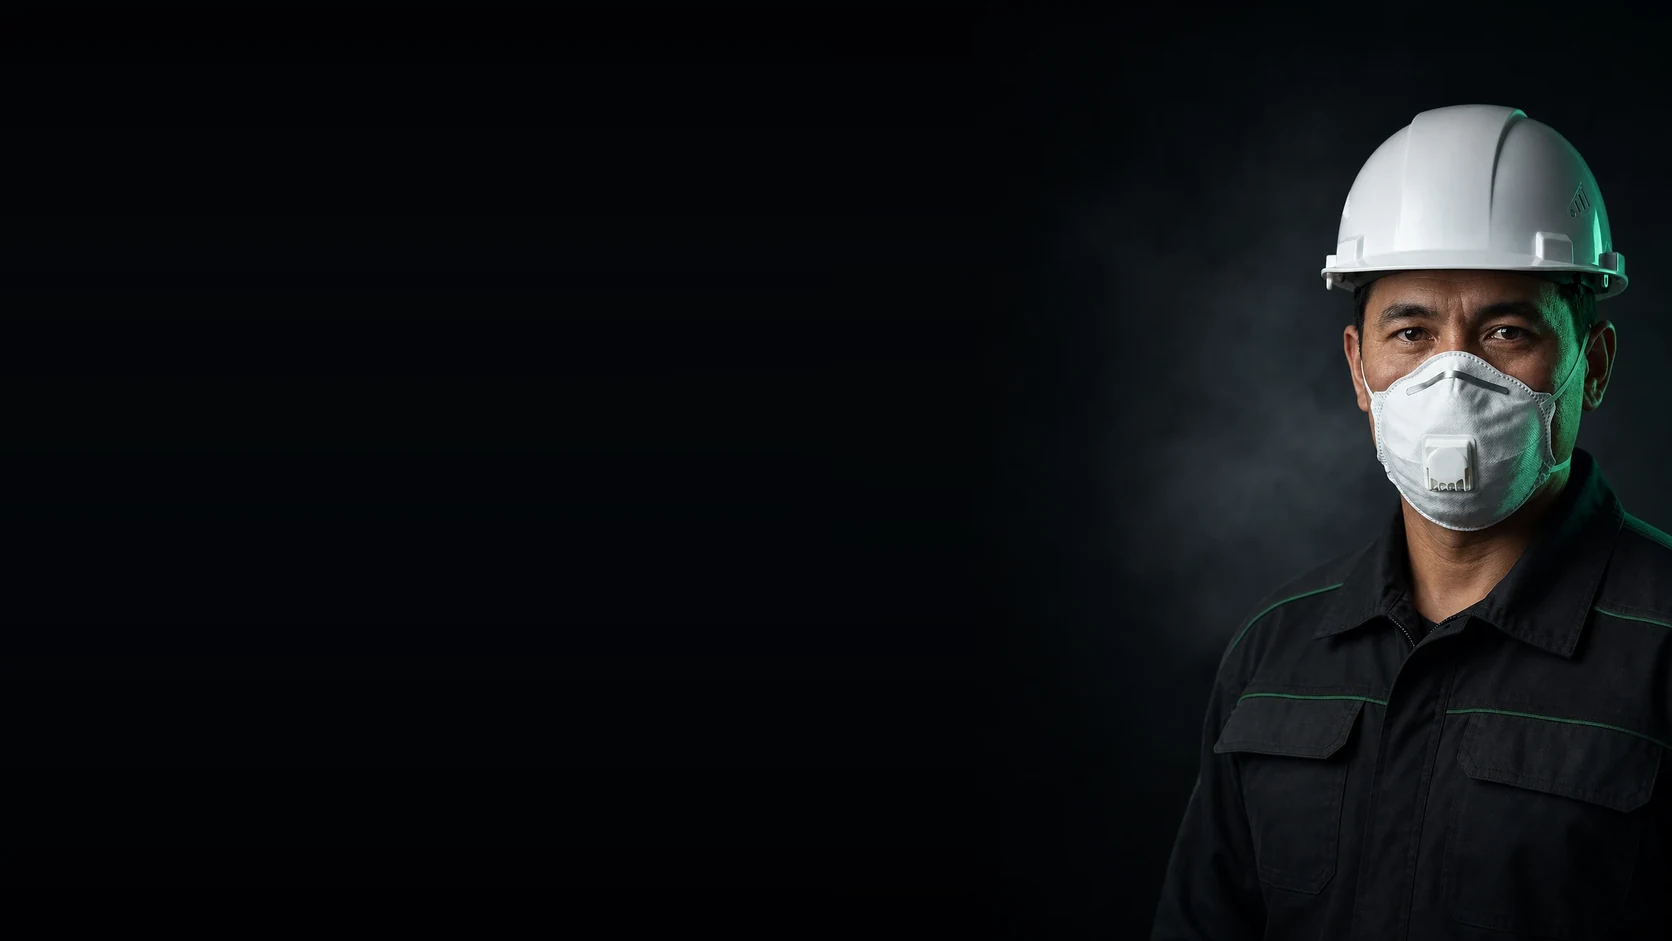
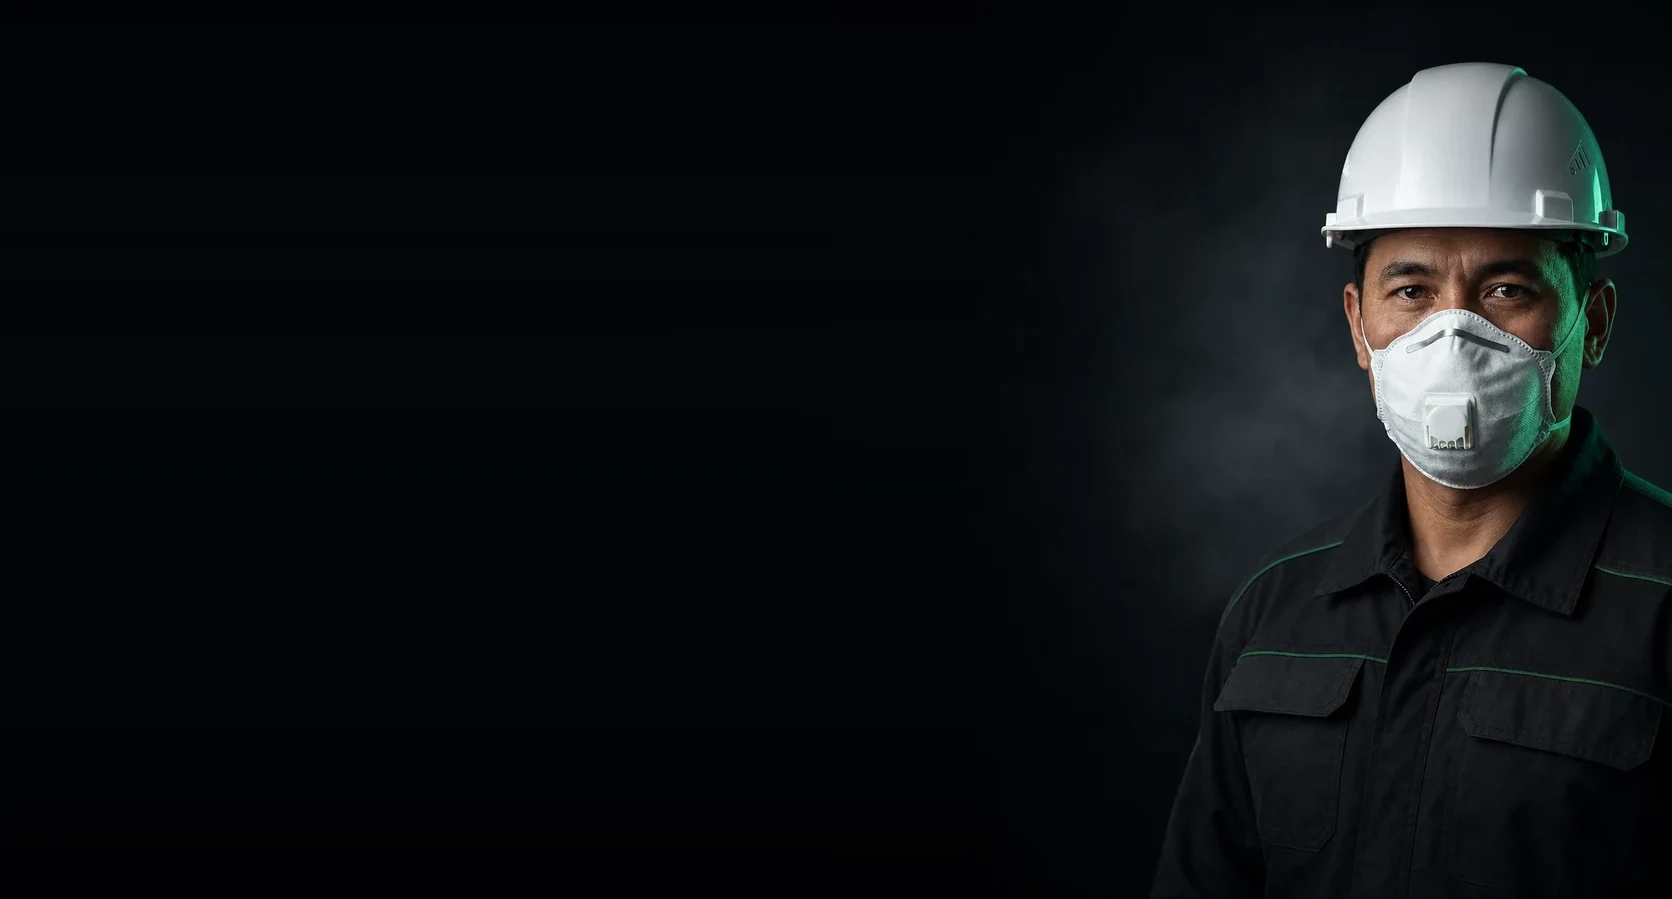
Первый экран: фигура выше, подводка в две строки
Рабочий поднят: из широкого кадра срезано 4,5 % собственного воздуха над
каской. Замер - каска на 9 % высоты острова вместо 13 на всех широких
экранах, на телефоне без изменений.

Подводка перестроена в две строки, как просил владелец: сверху объём
линейки, снизу главное отличие. Формулировка «на складе в наличии»
не использована - наличие и склад у заказчика не подтверждены, это
запрещённое утверждение по своду правил. Написано то, что доказуемо:
«22 позиции респираторов FFP1-FFP3» и «Открытый прайс - все цены
на этой странице».

diff --git a/index.html b/index.html
@@ -1471,7 +1471,7 @@
         <img src="assets/hero-premium-v2.webp"
              srcset="assets/hero-premium-v2-1200.webp 1200w, assets/hero-premium-v2.webp 1672w"
              sizes="(max-width:980px) 100vw, 78vw"
-             width="1672" height="941"
+             width="1672" height="899"
              alt="Рабочий в каске и фильтрующей полумаске с клапаном выдоха" fetchpriority="high" decoding="async">
       </picture>
     </figure>
@@ -1482,7 +1482,7 @@
         <span>FAROS</span>
         <span class="acc">Респираторы</span>
       </h1>
-      <p class="hero-lead"><i class="hl-full">Поставляем промышленным предприятиям по&nbsp;всему Казахстану. Цены на&nbsp;все 22&nbsp;позиции&nbsp;- ниже на&nbsp;этой странице.</i><i class="hl-min">Поставляем по&nbsp;всему Казахстану. Цены на&nbsp;22&nbsp;позиции&nbsp;- ниже на&nbsp;странице.</i></p>
+      <p class="hero-lead"><i class="hl-full">Поставляем по&nbsp;всему Казахстану. 22&nbsp;позиции респираторов FFP1-FFP3.<br>Открытый прайс&nbsp;- все цены на&nbsp;этой странице.</i><i class="hl-min">Поставляем по&nbsp;всему Казахстану. 22&nbsp;позиции.<br>Открытый прайс&nbsp;- цены на&nbsp;странице.</i></p>
       <div class="hero-act">
         <a class="pill pill--brand" href="https://wa.me/77710519449?text=%D0%97%D0%B4%D1%80%D0%B0%D0%B2%D1%81%D1%82%D0%B2%D1%83%D0%B9%D1%82%D0%B5%21%20%D0%9D%D1%83%D0%B6%D0%B5%D0%BD%20%D1%80%D0%B0%D1%81%D1%87%D1%91%D1%82%20%D0%BF%D0%B0%D1%80%D1%82%D0%B8%D0%B8%20%D1%80%D0%B5%D1%81%D0%BF%D0%B8%D1%80%D0%B0%D1%82%D0%BE%D1%80%D0%BE%D0%B2%20FAROS.%20%D0%98%D1%81%D1%82%D0%BE%D1%87%D0%BD%D0%B8%D0%BA%3A%20%D1%81%D0%B0%D0%B9%D1%82%20farospro.kz" target="_blank" rel="noopener" data-place="хиро-заявка">
             <svg viewBox="0 0 24 24" fill="currentColor" aria-hidden="true"><path d="M12 2a10 10 0 0 0-8.6 15.1L2 22l5-1.3A10 10 0 1 0 12 2Zm5.5 14c-.2.6-1.2 1.2-1.7 1.2-.5.1-1 .1-1.6-.1-.4-.1-.9-.3-1.5-.6-2.6-1.1-4.3-3.8-4.4-4-.1-.2-1-1.4-1-2.6 0-1.2.6-1.8.9-2.1.2-.2.5-.3.7-.3h.5c.2 0 .4 0 .6.5l.8 1.9c.1.2 0 .4-.1.5l-.3.4-.3.3c-.1.1-.2.3-.1.5.1.2.6 1.1 1.4 1.8 1 .9 1.8 1.1 2 1.2.2.1.4.1.5-.1l.7-.8c.2-.2.3-.2.5-.1l1.8.9c.2.1.4.2.4.3.1.2.1.7-.1 1.3Z"/></svg>
